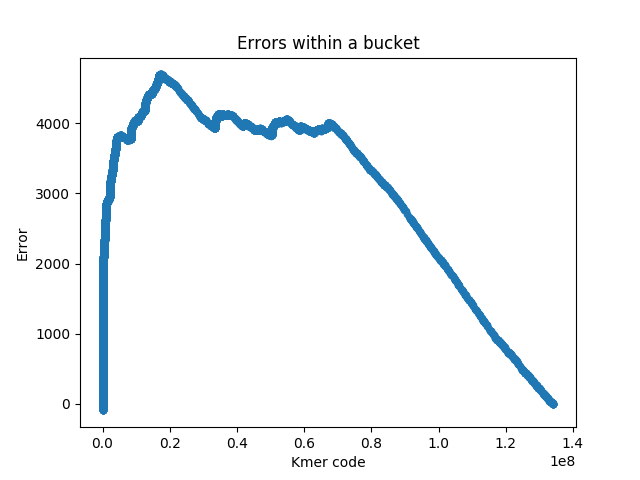
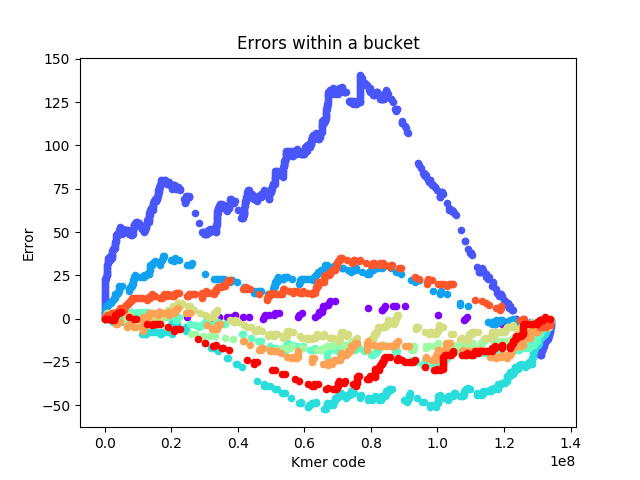
Added errors for multiple buckets

diff --git a/plot_errors.py b/plot_errors.py
@@ -5,12 +5,16 @@
 import matplotlib
 matplotlib.use('Agg')
 import matplotlib.pyplot as plt
+import matplotlib.axes as mataxes
+import matplotlib.cm as cm
+
 import sys
 import pandas
 import numpy as np
 import math
+import random
 
-subset = False
+subset = True
 
 fn = sys.argv[1]
 output = sys.argv[2]
@@ -19,8 +23,19 @@ if len(sys.argv) > 3 and sys.argv[3] == 'subset':
 with open(fn) as f:
     df = pandas.read_table(fn)
     if subset:
-        firstbucket = df[df['Bucket'] == 0]
-        firstbucket.plot(x = 'Kmer', y = 'Error', kind = 'scatter')
+        numBucketsToPlot = 10
+        colors = cm.rainbow(np.linspace(0, 1, numBucketsToPlot))
+        numbuckets = df['Bucket'].max()
+        bucketsToPlot = random.sample(xrange(numbuckets), numBucketsToPlot)
+        bucketContents = df[df['Bucket'] == bucketsToPlot[0]]
+        minKmer = bucketContents['Kmer'].min()
+        bucketContents['KmerDiff'] = bucketContents['Kmer'] - minKmer
+        ax = bucketContents.plot(x = 'KmerDiff', y = 'Error', kind = 'scatter', c = colors[0])
+        for i in range(1, numBucketsToPlot):
+            bucketContents = df[df['Bucket'] == bucketsToPlot[i]]
+            minKmer = bucketContents['Kmer'].min()
+            bucketContents['KmerDiff'] = bucketContents['Kmer'] - minKmer
+            bucketContents.plot(x = 'KmerDiff', y = 'Error', kind = 'scatter', ax = ax, c = colors[i])
     else:
         nrows = df.shape[0]
         logerrors = [float(0) for i in range(0, nrows)]
@@ -45,4 +60,4 @@ else:
     plt.xlabel('log2(Error)')
     plt.ylabel('Number of kmers')
 plt.savefig(output)           
-plt.show()
+#plt.show()
